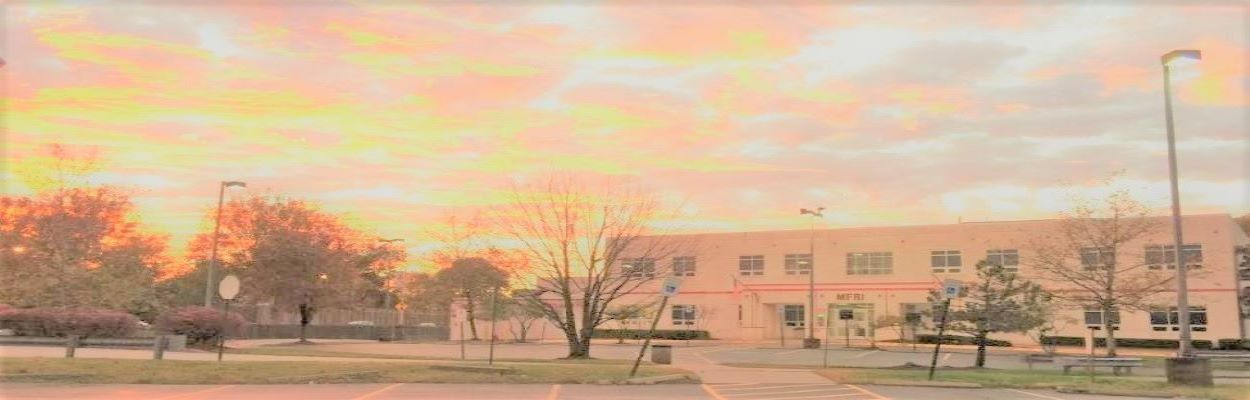
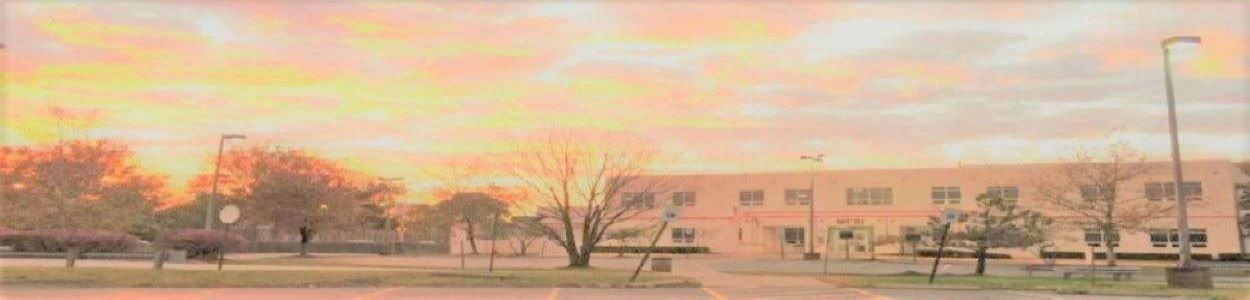
Changed dimensions of images
I changed the dimensions of the images. In addition, the text will wrap when the web page shrinks.

diff --git a/Spring-2022-web-dev/index.html b/Spring-2022-web-dev/index.html
@@ -59,7 +59,7 @@
       </div>
     </nav>
     <div class="has-bg-img">
-      <div class="bg-image" style="background-image: url('Images/mfri_hq_sunset.original.jpg'); height: 400px; width: auto">
+      <div class="bg-image" style="background-image: url('Images/mfri_hq_sunset.original.jpg'); height: auto; width: auto">
         <div class="d-flex  flex-col justify-content-center">
           <h2 class="pt-5">MICRB Mission</h2>
         </div>
